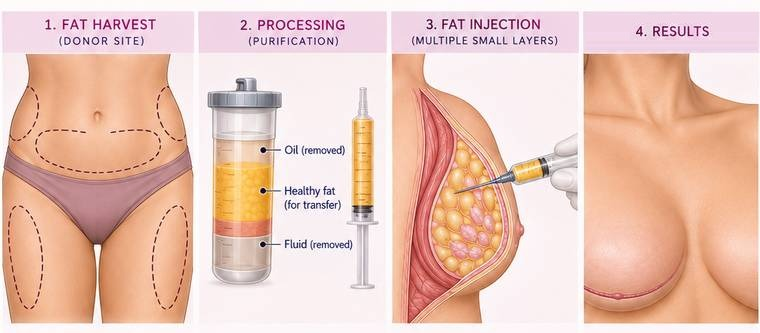
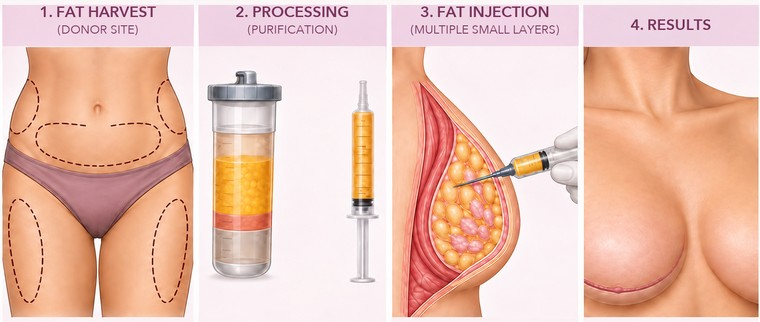
Rebuild fat grafting from the regenerated artwork, slope corrected
The bulge is gone, measured the same way it was found. Along the upper
slope the skin band now runs 6 - 9 - 14 - 18 - 12 where the previous
version ran 3 - 16 - 49 - 54 - 33. No spike, and the median band is 9px
against 14, so the skin reads thinner overall as well.

The reading of 66px near x=1110 appears in both versions, so it is the
nipple and syringe crossing the scan line rather than a defect.

Geometry is identical to the previous wordless file -- 1651x953, same
panel x-ranges, same bar rows -- so the headers were drawn by the same
code with no adjustment.

This supersedes the previous diagram that was restored while the panel
was redrawn. Both wordless sources stay in the repo and out of the
deploy; the superseded one is kept because it is still the better
reference for panels 1, 2 and 4 if either is ever rebuilt alone.

diff --git a/index.html b/index.html
@@ -2235,7 +2235,7 @@
           <button type="button" class="recon-back" data-panel="panel-recon">&lsaquo; All options</button>
           <h2>Fat Grafting / Lipofilling</h2>
           <div class="recon-art">
-            <img src="images/recon-fatgrafting.jpg" alt="Four stages: fat harvest from the abdomen and thighs, purification in a canister, injection into the breast, and the final result" loading="lazy" width="760" height="333" />
+            <img src="images/recon-fatgrafting.jpg" alt="Four stages: fat harvest from the abdomen and thighs, purification in a canister, injection into the breast, and the final result" loading="lazy" width="760" height="322" />
           </div>
           <p class="recon-body">Fat is taken from elsewhere by gentle liposuction, purified, and injected in small amounts to smooth contours and improve shape. Several sessions are often needed, because some of the transferred fat is reabsorbed naturally.</p>
           <p class="recon-src">Sources: <a href="https://www.cancer.gov/types/breast/treatment/surgery/breast-reconstruction" target="_blank" rel="noopener">National Cancer Institute</a>; <a href="https://www.cancer.org/cancer/types/breast-cancer/reconstruction-surgery/breast-reconstruction-options.html" target="_blank" rel="noopener">American Cancer Society</a>.</p>
